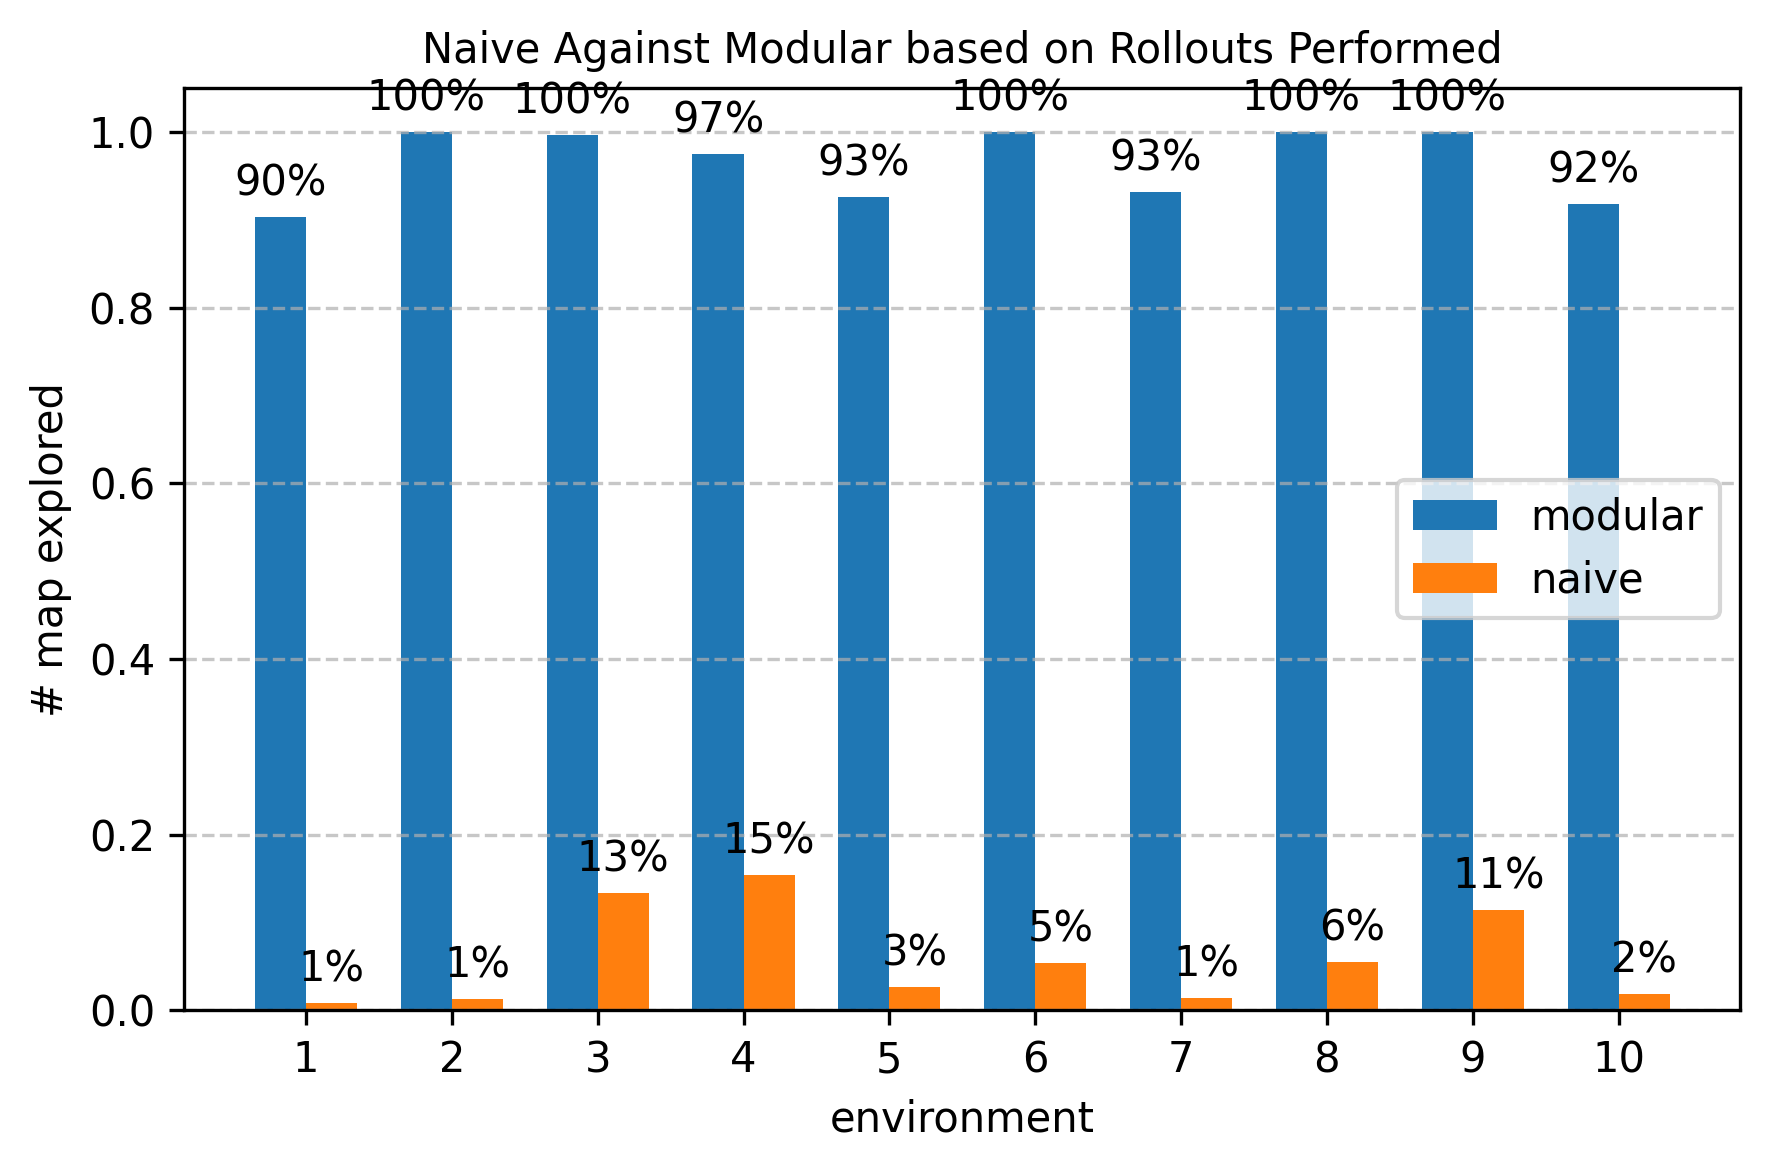
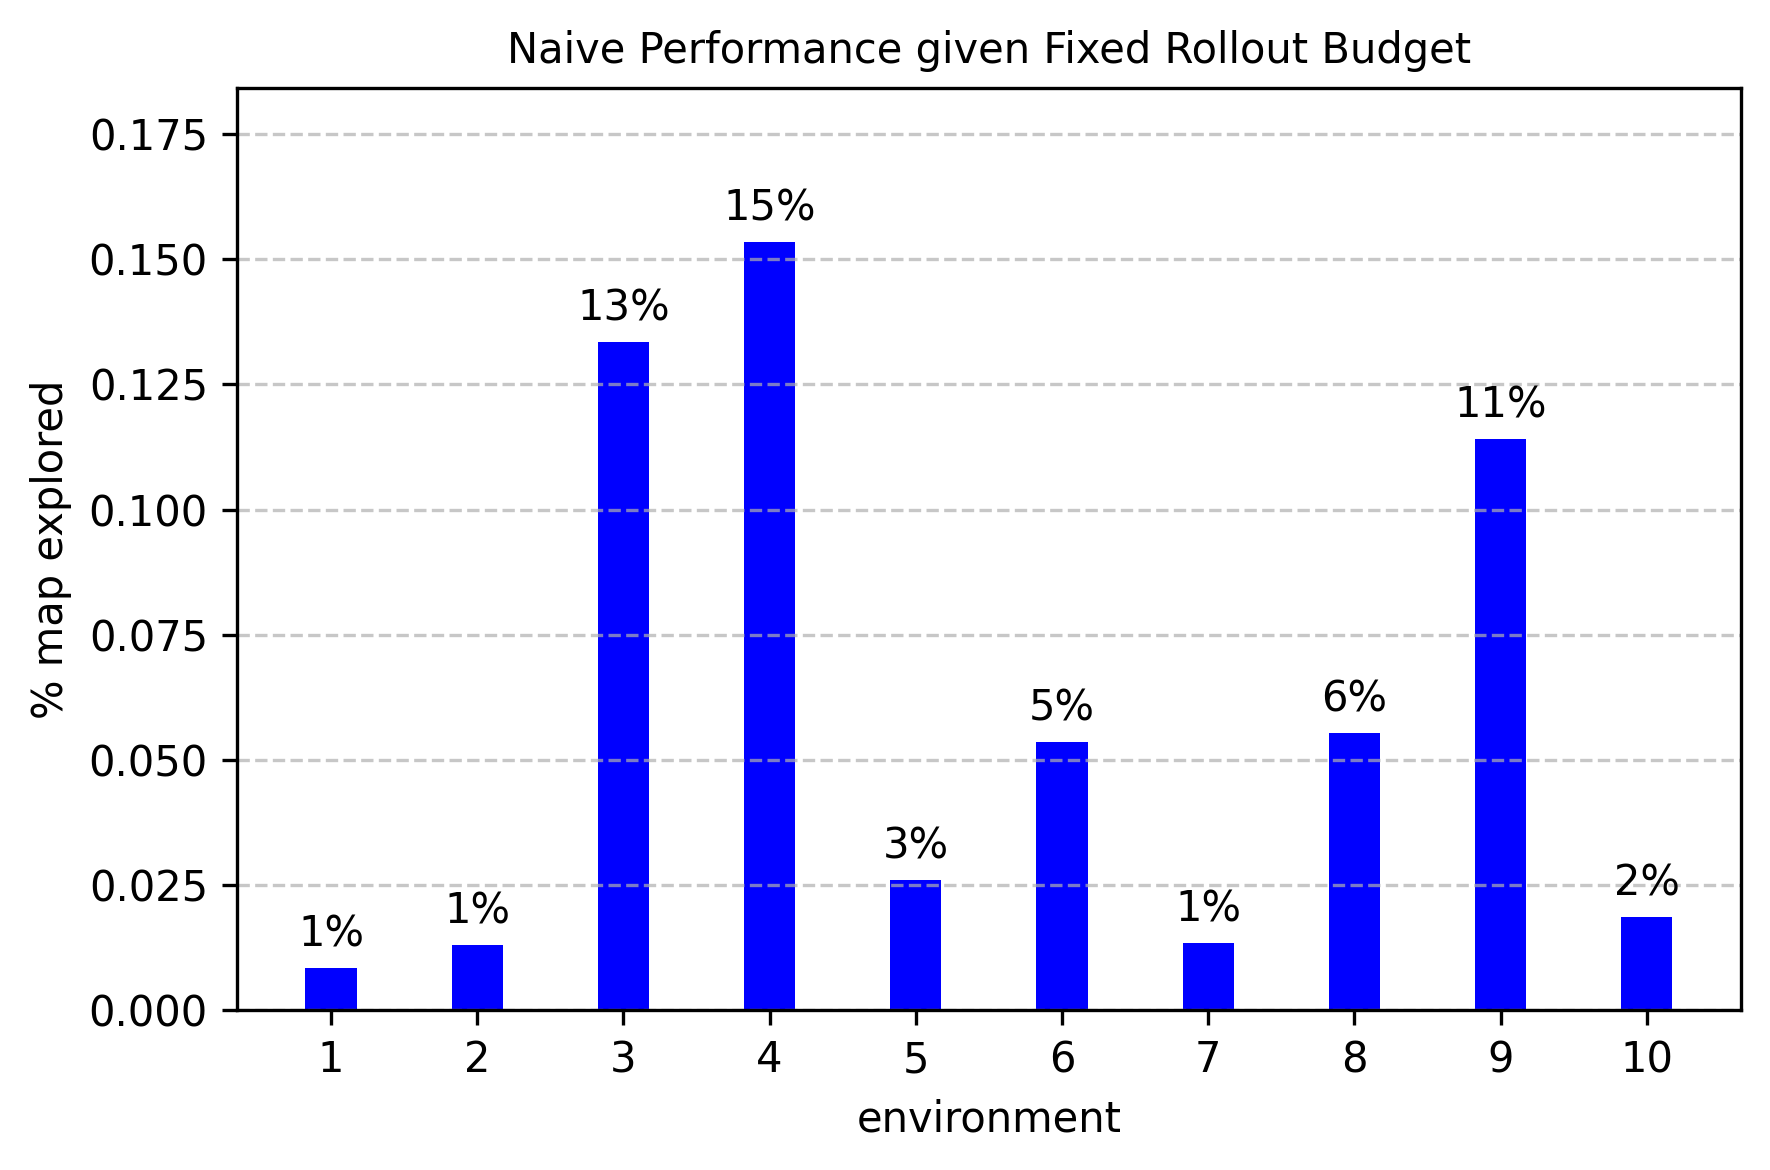
updated look details for performance and benchmarking plots

diff --git a/plots/combined_comparison_plot.py b/plots/combined_comparison_plot.py
@@ -2,6 +2,7 @@ import numpy as np
 import matplotlib.pyplot as plt
 import matplotlib.ticker as ticker
 from result_data import *
+from scipy.stats import sem
 
 # make sure modular observed checkpoint is recorded at the end of each fragment exploration
 modular_observed_cp = [
@@ -20,27 +21,42 @@ for i in range(len(modular_observed_cp)):
     assert len(temp) == 1, f"Length mismatch in run {i}"
 
 
-# generate combined plot for rollout performed
-
-fig, ax = plt.subplots()
+# --- Combined plot for rollout performed ---
+fig, ax = plt.subplots(figsize=(10, 6))
 ax.xaxis.set_major_formatter(ticker.ScalarFormatter(useMathText=False))
 plt.ticklabel_format(style="plain", axis="x")  # turn off sci-notation
 
-for i, (obs, roll, naive) in enumerate(zip(modular_observed_cp, modular_roll_cp, naive_rollout_observed_cp)):
+# Common x grid
+x_common = np.linspace(
+    min(min(r) for r in modular_roll_cp),
+    max(max(r) for r in modular_roll_cp),
+    100
+)
 
-    x_modular = np.linspace(min(roll), max(roll), 100)
-    poly_modular = np.poly1d(np.polyfit(roll, obs, deg=1))
-    poly_naive = np.poly1d(np.polyfit(roll, naive, deg=1))
+# Interpolated values for each run
+modular_interp = []
+naive_interp = []
+for obs, roll, naive in zip(modular_observed_cp, modular_roll_cp, naive_rollout_observed_cp):
+    modular_interp.append(np.interp(x_common, roll, obs))
+    naive_interp.append(np.interp(x_common, roll, naive))
 
-    ax.plot(x_modular, poly_modular(x_modular), 'r-', linewidth=1,
-            label="modular fit" if i == 0 else None)
-    ax.plot(x_modular, poly_naive(x_modular), 'b--', linewidth=1,
-            label="naive fit" if i == 0 else None)
+modular_interp = np.array(modular_interp)
+naive_interp = np.array(naive_interp)
 
-    ax.plot(roll, obs, 'ro', markersize=3,
-            label="modular points" if i == 0 else None)
-    ax.plot(roll, naive, 'bo', markersize=3,
-            label="naive points" if i == 0 else None)
+# Mean and SEM
+modular_mean = modular_interp.mean(axis=0)
+modular_sem = sem(modular_interp, axis=0)
+naive_mean = naive_interp.mean(axis=0)
+naive_sem = sem(naive_interp, axis=0)
+
+# Plot mean + 95% CI band
+ax.plot(x_common, modular_mean, '-', color='red', linewidth=2, label="modular mean")
+ax.fill_between(x_common, modular_mean - 1.96*modular_sem, modular_mean + 1.96*modular_sem,
+                color='red', alpha=0.2, label="modular 95% CI")
+
+ax.plot(x_common, naive_mean, '--', color='blue', linewidth=2, label="naive mean")
+ax.fill_between(x_common, naive_mean - 1.96*naive_sem, naive_mean + 1.96*naive_sem,
+                color='blue', alpha=0.2, label="naive 95% CI")
 
 plt.xlabel("rollouts performed")
 plt.xticks(fontsize=7)
@@ -49,37 +65,5 @@ plt.title("Expected Model Performance vs. Rollouts Performed")
 plt.legend(fontsize=7)
 plt.grid(True)
 
-plt.savefig("ziheng_combined_rollout.png", dpi=300, bbox_inches="tight")
-plt.close()
-
-
-# generate combined plot for time elapsed
-
-fig, ax = plt.subplots()
-ax.xaxis.set_major_formatter(ticker.ScalarFormatter(useMathText=False))
-plt.ticklabel_format(style="plain", axis="x")  # turn off sci-notation
-
-for i, (obs, time, naive_time) in enumerate(zip(modular_observed_cp, modular_time_cp, naive_time_observed_cp)):
-    x_modular = np.linspace(min(time), max(time), 100)
-    poly_modular = np.poly1d(np.polyfit(time, obs, deg=1))
-    poly_naive = np.poly1d(np.polyfit(time, naive_time, deg=1))
-
-    ax.plot(x_modular, poly_modular(x_modular), 'r-', linewidth=1,
-            label="modular fit" if i == 0 else None)
-    ax.plot(x_modular, poly_naive(x_modular), 'b--', linewidth=1,
-            label="naive fit" if i == 0 else None)
-
-    ax.plot(time, obs, 'ro', markersize=3,
-            label="modular points" if i == 0 else None)
-    ax.plot(time, naive_time, 'bo', markersize=3,
-            label="naive points" if i == 0 else None)
-
-plt.xlabel("time elapsed")
-plt.xticks(fontsize=7)
-plt.ylabel("% map explored")
-plt.title("Expected Model Performance vs. Time Elapsed")
-plt.legend(fontsize=7)
-plt.grid(True)
-
-plt.savefig("ziheng_combined_time.png", dpi=300, bbox_inches="tight")
+plt.savefig("ziheng_combined_rollout_CI.png", dpi=300, bbox_inches="tight")
 plt.close()

diff --git a/plots/benchmark_plot.py b/plots/benchmark_plot.py
@@ -19,19 +19,19 @@ fig, ax = plt.subplots(figsize=(6,4))
 
 # comparison bars
 width = 0.35
-modular_bar = ax.bar(x - width/2, modular_roll, width, label="modular")
-naive_bar = ax.bar(x + width/2, naive_roll, width, label="naive")
+# modular_bar = ax.bar(x - width/2, modular_roll, width, label="modular")  # removed modular bar
+naive_bar = ax.bar(x, naive_roll, width, label="naive", color="blue")
 
 # Labels
 ax.set_xlabel("environment")
-ax.set_ylabel("# map explored")
-ax.set_title("Naive Against Modular based on Rollouts Performed", fontsize=10)
+ax.set_ylabel("% map explored")
+ax.set_title("Naive Performance given Fixed Rollout Budget", fontsize=10)
 ax.set_xticks(x)
 ax.set_xticklabels([str(i+1) for i in x])  # start labels at 1
-ax.legend()
 ax.grid(True, axis="y", linestyle="--", alpha=0.7)
+ax.set_ylim(0, max(naive_roll)*1.2)
 
-ax.bar_label(modular_bar, labels=[f"{v.get_height()*100:.0f}%" for v in modular_bar], padding=3)
+# ax.bar_label(modular_bar, labels=[f"{v.get_height()*100:.0f}%" for v in modular_bar], padding=3)
 ax.bar_label(naive_bar, labels=[f"{v.get_height()*100:.0f}%" for v in naive_bar], padding=3)
 
 plt.tight_layout()
@@ -54,19 +54,19 @@ fig, ax = plt.subplots(figsize=(6,4))
 
 # comparison bars
 width = 0.35
-modular_bar = ax.bar(x - width/2, modular_time, width, label="modular")
-naive_bar = ax.bar(x + width/2, naive_time, width, label="naive")
+# modular_bar = ax.bar(x - width/2, modular_time, width, label="modular")  # removed modular bar
+naive_bar = ax.bar(x, naive_time, width, label="naive", color="blue")
 
 # Labels
 ax.set_xlabel("environment")
-ax.set_ylabel("# map explored")
-ax.set_title("Naive Against Modular based on Time Elapsed", fontsize=10)
+ax.set_ylabel("% map explored")
+ax.set_title("Naive Performance given Fixed Time Budget", fontsize=10)
 ax.set_xticks(x)
 ax.set_xticklabels([str(i+1) for i in x])  # start labels at 1
-ax.legend()
 ax.grid(True, axis="y", linestyle="--", alpha=0.7)
+ax.set_ylim(0, max(naive_time)*1.2)
 
-ax.bar_label(modular_bar, labels=[f"{v.get_height()*100:.0f}%" for v in modular_bar], padding=3)
+# ax.bar_label(modular_bar, labels=[f"{v.get_height()*100:.0f}%" for v in modular_bar], padding=3)
 ax.bar_label(naive_bar, labels=[f"{v.get_height()*100:.0f}%" for v in naive_bar], padding=3)
 
 plt.tight_layout()
